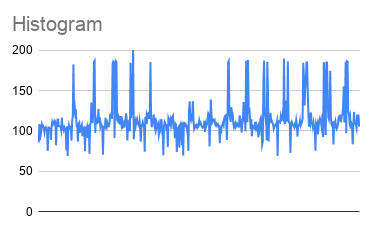
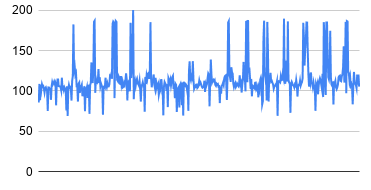
fixed graphs

diff --git a/swarm_robotics.html b/swarm_robotics.html
@@ -58,24 +58,31 @@
                 the automatic stopping of the robot, and found that at distances over 60 cm there was enough space for
                 the robot to consistently decelerate and stop before hitting the obstacle. Once we were at higher
                 distances, however, the robot would automatically stop due to single erroneous readings. To avoid this
-                issue, we implemented a running average of the ultrasonic distance readings <!--(see graphs below)-->. The
+                issue, we implemented a running average of the ultrasonic distance readings (see graphs below). The
                 window size which reduces errors while still allowing the robot to stop in time is 10 readings. Another
                 issue we encountered with the ultrasonic was avoiding less obvious obstacles - for example, the robot
                 ran into a chair and did not stop, even when stuck, because its sensor could not detect the leg. We are
                 looking into solutions for this issue in the coming week.
             </p>
-            <!--
             <div class="row">
-                <div class="col-md-6 img-captioned">
-                    <img src="src/images/jankasselectronics.jpg" class="post-img img-fluid d-block">
-                    <p class="lead"><i>Robot stopped automatically when it detects a barrier</i></p>
+                <div class="col-md-3 img-captioned">
+                    <img src="src/images/UnscaledUSData.png" class="post-img img-fluid d-block">
+                    <p class="lead"><i>Raw readings over time from the ultrasonic at constant distance</i></p>
                 </div>
-                <div class="col-md-6 img-captioned">
-                    <img src="src/images/stacked.jpg" class="post-img img-fluid d-block">
-                    <p class="lead"><i>Electronic setup from top to bottom: motor controller, GPIO HAT, and Raspi</i></p>
+                <div class="col-md-3 img-captioned">
+                    <img src="src/images/5IntervalRA-USData.png" class="post-img img-fluid d-block">
+                    <p class="lead"><i>Smoothing of readings with a running average window of 5</i></p>
+                </div>
+                <div class="col-md-3 img-captioned">
+                    <img src="src/images/10IntervalRA-USData.png" class="post-img img-fluid d-block">
+                    <p class="lead"><i>Window of 10</i></p>
+                </div>
+                <div class="col-md-3 img-captioned">
+                    <img src="src/images/15IntervalRA-USData.png" class="post-img img-fluid d-block">
+                    <p class="lead"><i>Window of 15</i></p>
                 </div>
             </div>
--->
+
             <h4 class="featurette-heading">Week of November 4</h4>
             <p class="lead">
                 Combined the ultrasonic and drive train wirings, and performed preliminary tests on auto-stop code. The
